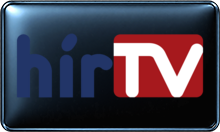
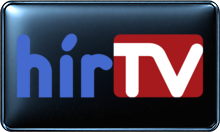
Improve five BLACK/WHITE wordmark contrasts

Changed region(s): [[0.2727, 0.2424, 0.5182, 0.7576], [0.0545, 0.2424, 0.2455, 0.7576]]

diff --git a/reports/black-white-qc-2026-10-09/batch-004/checkpoint.md b/reports/black-white-qc-2026-10-09/batch-004/checkpoint.md
@@ -1,0 +1,9 @@
+# BLACK/WHITE QC batch 004
+
+- Remote baseline checkpoint: `9674c13692cf7f03c9b982e20286d2880546c8a0`.
+- Reviewed and repaired 5 variants: 2 BLACK and 3 WHITE (Spectrum, CGTN, Kanal 1 Sport, Love Nature, hirTV).
+- Color changes were made to hue-matched pixels in temporary in-memory copies of the transparent sources; checked-in transparent PNGs were not written.
+- Rendering used the pinned production renderer and exact MASTER templates. Before-render matched current output byte-for-pixel for both styles on all five identities.
+- Recolored only each named wordmark. Brand hue, source alpha, logo geometry, and all pixels outside the selected source mask were preserved.
+- Visual comparison and per-file hashes are in this directory.
+- Last processed: `0.8w/digislovakia/black/1_0_1_4A6_3_1_E080000_0_0_0`. Next: next flagged candidates in review sheets 001–013.
